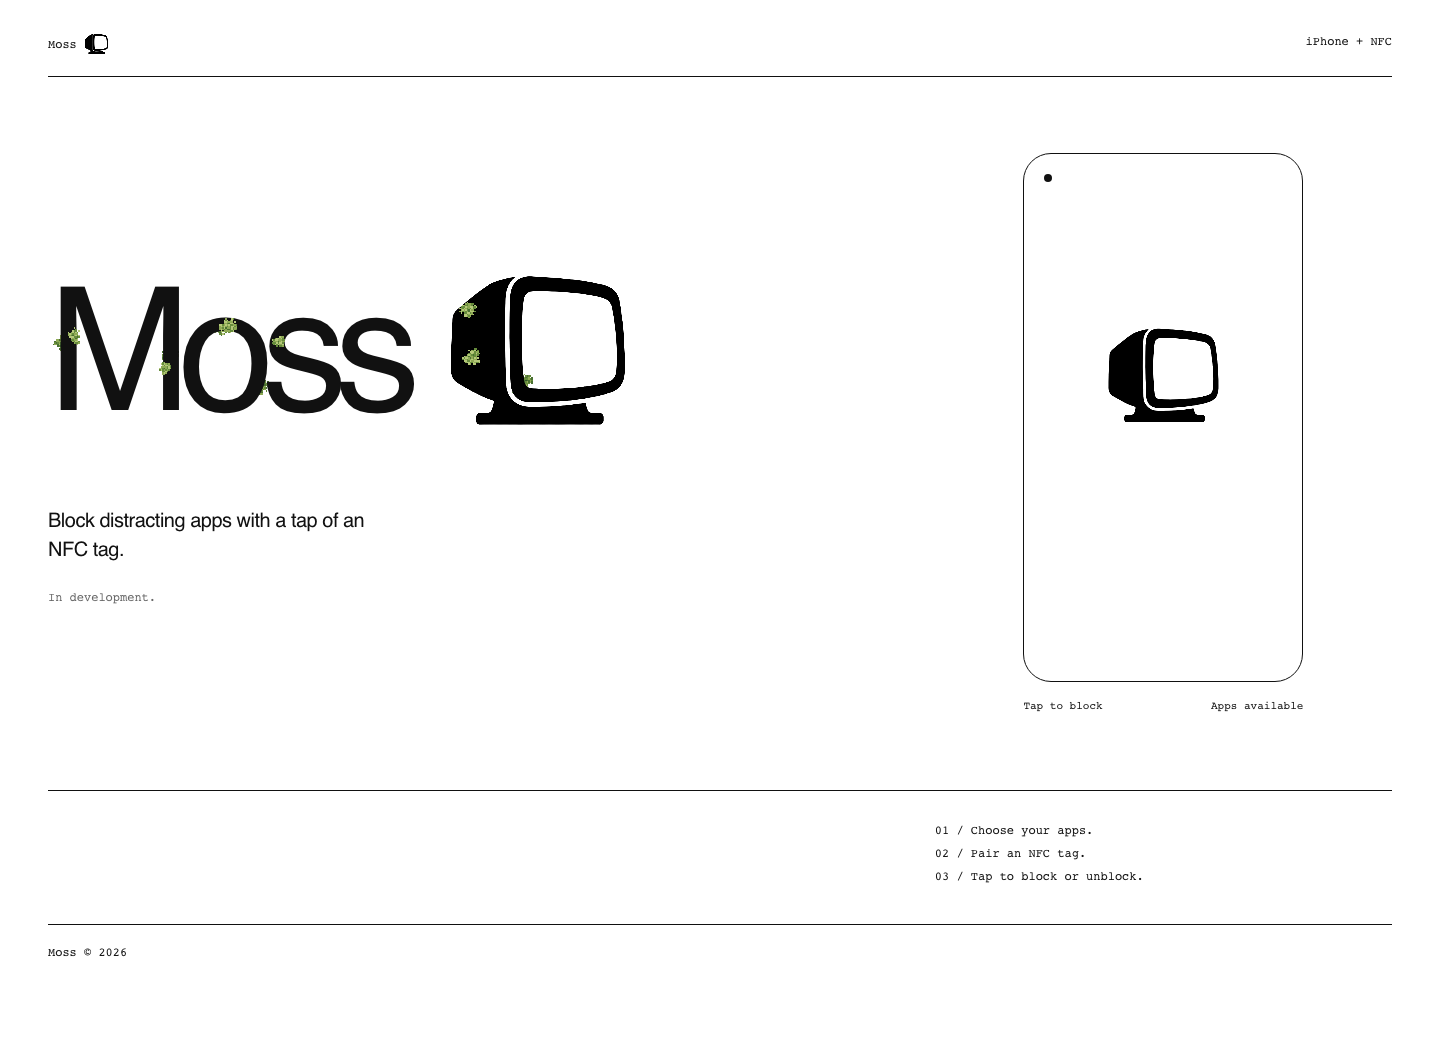
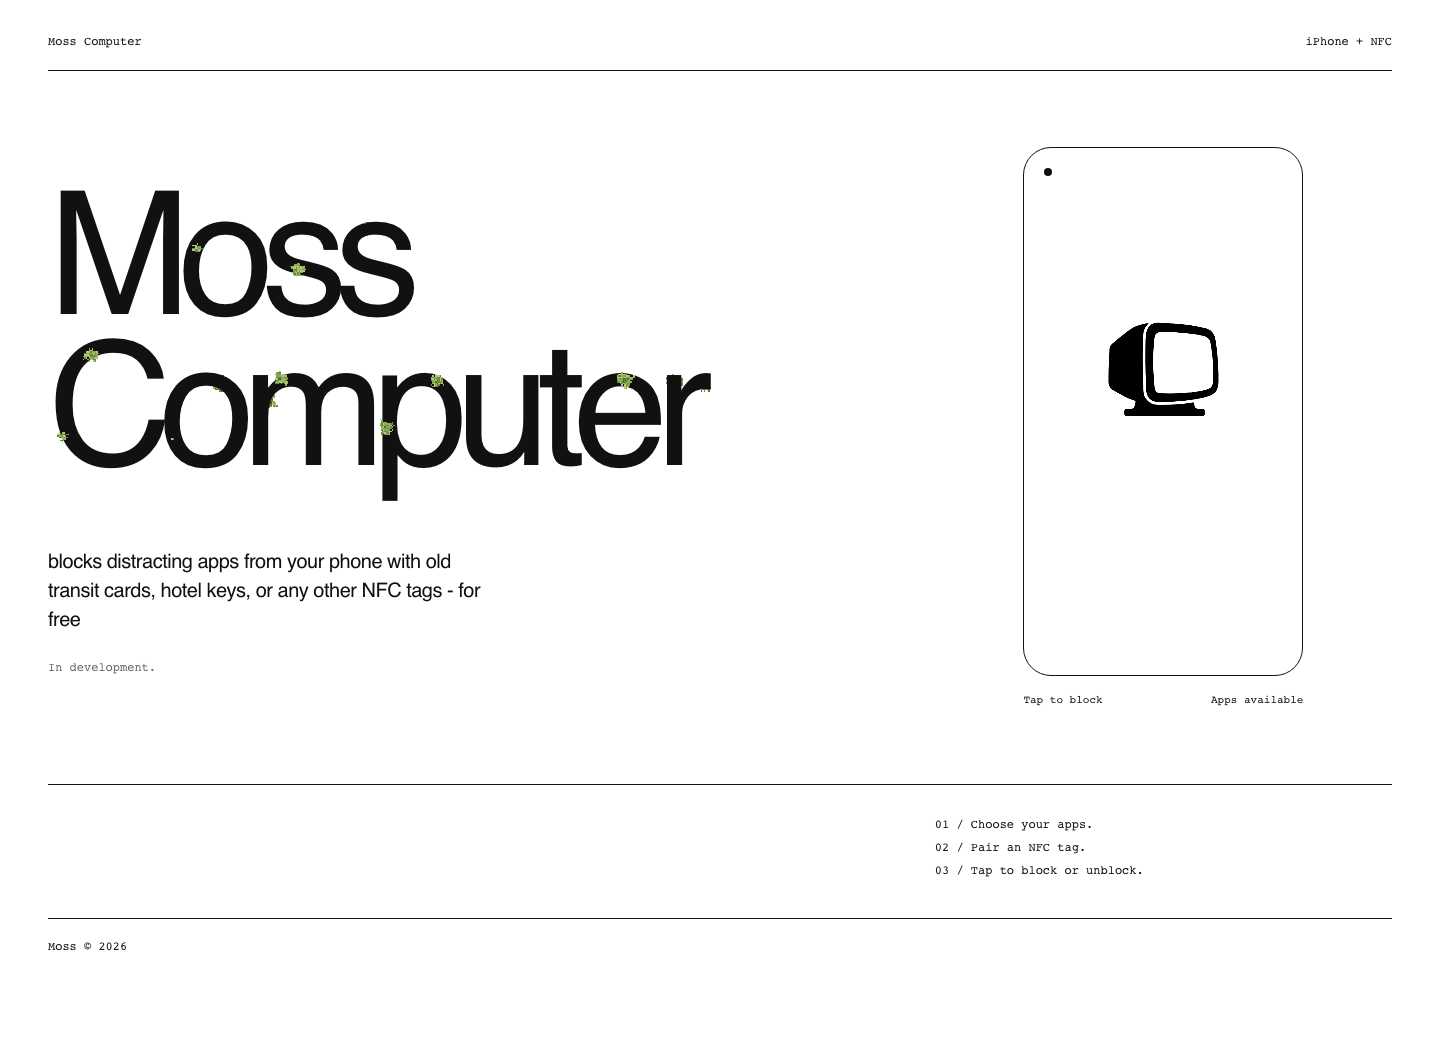
Use a text wordmark and compare rounded and geometric computers

diff --git a/index.html b/index.html
@@ -3,10 +3,10 @@
 <head>
   <meta charset="utf-8">
   <meta name="viewport" content="width=device-width, initial-scale=1">
-  <meta name="description" content="Moss is an iPhone app for blocking distracting apps with an NFC tag.">
+  <meta name="description" content="Moss Computer blocks distracting apps from your phone with old transit cards, hotel keys, or any other NFC tags - for free.">
   <meta name="theme-color" content="#ffffff">
   <meta property="og:title" content="Moss Computer">
-  <meta property="og:description" content="Block distracting apps with a tap of an NFC tag.">
+  <meta property="og:description" content="Blocks distracting apps from your phone with old transit cards, hotel keys, or any other NFC tags - for free.">
   <meta property="og:type" content="website">
   <meta property="og:url" content="https://mosscomputer.com/">
   <link rel="canonical" href="https://mosscomputer.com/">
@@ -17,12 +17,12 @@
 </head>
 <body>
   <div class="page">
-    <header><span class="header-brand" aria-label="Moss Computer">Moss <img class="brand-icon" src="assets/computer-image-2.png" width="28" height="24" alt="Computer"></span><span>iPhone + NFC</span></header>
+    <header><span class="header-brand">Moss Computer</span><span>iPhone + NFC</span></header>
     <main>
       <section class="hero" aria-labelledby="name">
         <div>
-          <h1 id="name" aria-label="Moss Computer"><canvas class="moss-layer back" aria-hidden="true"></canvas><span data-ink>Moss</span><img data-ink class="brand-icon" src="assets/computer-image-2.png" width="592" height="526" alt=""><canvas class="moss-layer front" aria-hidden="true"></canvas></h1>
-          <p class="intro">Block distracting apps with a tap of an NFC tag.</p>
+          <h1 id="name"><canvas class="moss-layer back" aria-hidden="true"></canvas><span data-ink>Moss</span> <span data-ink>Computer</span><canvas class="moss-layer front" aria-hidden="true"></canvas></h1>
+          <p class="intro">blocks distracting apps from your phone with old transit cards, hotel keys, or any other NFC tags - for free</p>
           <p class="soon">In development.</p>
         </div>
         <figure>

diff --git a/script.js b/script.js
@@ -5,21 +5,18 @@ const screen = document.querySelector('.screen');
 const title = document.getElementById('name');
 const icon = document.querySelector('.icon');
 const selectedIcon = icons.find(item => item.id === new URLSearchParams(location.search).get('icon')) || defaultIcon;
-const brandIcon = selectedIcon.id.startsWith('computer') ? selectedIcon : defaultIcon;
-const titleIcon = title.querySelector('img');
-const headerIcon = document.querySelector('.header-brand img');
 const reducedMotion = matchMedia('(prefers-reduced-motion: reduce)');
 // Wait for the new request: replacing a PNG can invalidate Firefox's pending decode.
-await Promise.all([[icon, selectedIcon.src], [titleIcon, brandIcon.src], [headerIcon, brandIcon.src]].map(([image, source]) => new Promise((resolve, reject) => {
-  image.onload = () => { image.onload = image.onerror = null; resolve(); };
-  image.onerror = () => { image.onload = image.onerror = null; reject(new Error(`Cannot load ${source}`)); };
-  image.src = source;
-})));
+await new Promise((resolve, reject) => {
+  icon.onload = () => { icon.onload = icon.onerror = null; resolve(); };
+  icon.onerror = () => { icon.onload = icon.onerror = null; reject(new Error(`Cannot load ${selectedIcon.src}`)); };
+  icon.src = selectedIcon.src;
+});
 await document.fonts.ready;
 const phone = createIconField(screen, icon, selectedIcon);
 let titleMoss;
 function createTitle() {
-  const next = createWordmarkField(title, titleMoss, brandIcon);
+  const next = createWordmarkField(title, titleMoss);
   if (next === titleMoss) return;
   titleMoss = next;
   titleMoss.growth.setBlocked(true);

diff --git a/prototypes.html b/prototypes.html
@@ -12,12 +12,22 @@
 </head>
 <body>
   <div class="page prototype-page">
-    <header><a class="header-brand" href="index.html" aria-label="Moss Computer">Moss <img class="brand-icon" src="assets/computer-image-2.png" width="28" height="24" alt=""></a><span>Icon studies</span></header>
+    <header><a class="header-brand" href="index.html">Moss Computer</a><span>Icon studies</span></header>
     <main>
       <div class="study-heading">
         <div><h1>Icon studies</h1><p>Equal growth in every direction.</p></div>
         <div class="controls"><button id="grow" type="button">Grow all</button><button id="reset" type="button">Reset</button></div>
       </div>
+      <section class="page-study" aria-labelledby="page-heading">
+        <h2 id="page-heading">Rounded computer / page preview</h2>
+        <p><a href="index.html?icon=computer-image-3">Open full page ↗</a></p>
+        <iframe src="index.html?icon=computer-image-3" title="Moss Computer landing page with the rounded computer icon" loading="lazy"></iframe>
+      </section>
+      <section class="page-study" aria-labelledby="geometric-page-heading">
+        <h2 id="geometric-page-heading">Geometric computer / page preview</h2>
+        <p><a href="index.html?icon=computer-geometric">Open full page ↗</a></p>
+        <iframe src="index.html?icon=computer-geometric" title="Moss Computer landing page with the geometric SVG computer icon" loading="lazy"></iframe>
+      </section>
       <section aria-labelledby="image-heading">
         <h2 id="image-heading">Your computer icons</h2>
         <div class="studies image-studies" id="images"></div>

diff --git a/style.css b/style.css
@@ -5,12 +5,10 @@ header, footer { display: flex; justify-content: space-between; gap: 20px; font:
 header { padding-bottom: 20px; border-bottom: 1px solid; }
 .header-brand { display: flex; align-items: center; gap: 6px; }
 .brand-icon { object-fit: contain; mix-blend-mode: multiply; filter: grayscale(1) contrast(3); }
-.header-brand .brand-icon { width: 28px; height: 24px; }
 .hero { display: grid; grid-template-columns: 1.8fr 1fr; align-items: center; gap: 64px; padding: 76px 0; min-height: 640px; }
 h1 { position: relative; width: fit-content; margin: 0 0 64px; font-size: clamp(80px, 12vw, 172px); font-weight: 500; line-height: .88; letter-spacing: -.075em; }
-#name { display: flex; align-items: center; gap: .16em; }
-#name .brand-icon { position: relative; z-index: 1; width: 1.2em; height: 1.05em; }
-.intro { max-width: 350px; margin: 0; font-size: 20px; line-height: 1.45; letter-spacing: -.025em; }
+#name [data-ink] { display: block; }
+.intro { max-width: 440px; margin: 0; font-size: 20px; line-height: 1.45; letter-spacing: -.025em; }
 .soon { margin: 24px 0 0; color: #666; font: 12px/1.5 ui-monospace, monospace; }
 figure { width: 280px; max-width: 100%; margin: 0 auto; }
 .screen { position: relative; display: grid; place-items: center; width: 100%; aspect-ratio: 9 / 17; padding: 0; border: 1px solid #111; border-radius: 28px; background: #fff; color: #111; cursor: pointer; -webkit-tap-highlight-color: transparent; transition: background-color .35s, color .35s; }

diff --git a/prototypes.css b/prototypes.css
@@ -7,6 +7,8 @@ a { color: inherit; text-underline-offset: 3px; }
 .controls button:first-child { background: #111; color: #fff; }
 .prototype-page section + section { margin-top: 56px; }
 .prototype-page h2 { margin: 0 0 24px; font-size: 20px; font-weight: 500; letter-spacing: -.03em; }
+.page-study p { margin: 0 0 20px; font: 12px/1.6 ui-monospace, monospace; }
+.page-study iframe { display: block; width: 100%; height: 940px; border: 1px solid #d0d0d0; border-radius: 4px; }
 .studies { display: grid; grid-template-columns: repeat(5, minmax(0, 1fr)); gap: 20px; }
 .computer-studies { grid-template-columns: repeat(5, minmax(0, 1fr)); }
 .image-studies { grid-template-columns: repeat(2, minmax(0, 1fr)); }
@@ -37,6 +39,7 @@ a { color: inherit; text-underline-offset: 3px; }
 .study-note { padding: 36px 0 48px; }
 .controls button:focus-visible, .wordmark-preview:focus-visible, a:focus-visible { outline: 2px solid #111; outline-offset: 4px; }
 @media (max-width: 900px) {
+  .page-study iframe { height: 1200px; }
   .studies { grid-template-columns: repeat(3, minmax(0, 1fr)); }
   .computer-studies { grid-template-columns: repeat(2, minmax(0, 1fr)); }
   .image-studies, .wordmark-grid { grid-template-columns: 1fr; }

diff --git a/prototypes.js b/prototypes.js
@@ -45,11 +45,11 @@ const fields = await Promise.all(icons.map(async icon => {
   return connectPreview(figure, createIconField(figure, image, icon), icon.name);
 }));
 
-for (const icon of icons.filter(icon => icon.src.endsWith('.png'))) {
+for (const icon of icons.filter(icon => icon.src.endsWith('.png') || icon.id === 'computer-geometric')) {
   for (const replaceO of [false, true]) {
     const study = document.createElement('article');
     study.className = 'wordmark-study';
-    const label = `${icon.id.endsWith('1') ? 'Dark' : 'Light'} screen / ${replaceO ? 'computer “o”' : 'Moss + computer'}`;
+    const label = `${icon.name.replace('Your computer / ', '')} / ${replaceO ? 'computer “o”' : 'Moss + computer'}`;
     study.innerHTML = `
       <h3>${label}</h3>
       <button class="wordmark-preview" type="button" aria-pressed="false" aria-label="Grow moss on ${label}">

diff --git a/icons.js b/icons.js
@@ -11,6 +11,8 @@ export const icons = [
   { id: 'computer-thin-surface', name: 'Thin / surface growth, slower', src: 'assets/computer-thin.svg', fillInterior: true, spreadRate: .45 },
   { id: 'computer-image-1', name: 'Your computer / dark screen', src: 'assets/computer-image-1.png', growInterior: true },
   { id: 'computer-image-2', name: 'Your computer / light screen', src: 'assets/computer-image-2.png', growInterior: true },
+  { id: 'computer-image-3', name: 'Your computer / rounded', src: 'assets/computer-image-3.png', growInterior: true },
+  { id: 'computer-geometric', name: 'Rounded computer / geometric SVG', src: 'assets/computer-geometric.svg', growInterior: true },
 ];
 
 export const defaultIcon = icons.find(icon => icon.id === 'computer-image-2');

diff --git a/README.md b/README.md
@@ -6,7 +6,7 @@ Static GitHub Pages site. No dependencies or build step.
 python3 -m http.server 8000
 ```
 
-Open http://localhost:8000. The header and title read **Moss [computer icon]**, using the supplied light-screen computer PNG by default. Moss starts growing on the title before interaction. Tap the phone to block apps in the preview: moss grows on the computer while blocked and dries out after unblocking. Reduced-motion mode displays still images. Green is reserved for the moss.
+Open http://localhost:8000. The header and title read **Moss Computer**, with the computer icon appearing only in the phone preview. The tagline explains that old transit cards, hotel keys, or other NFC tags can block distracting apps for free. Moss starts growing on the title before interaction. Tap the phone to block apps in the preview: moss grows on the supplied light-screen computer while blocked and dries out after unblocking. Reduced-motion mode displays still images. Green is reserved for the moss.
 
 `moss.js` is the cellular automaton; `moss-field.js` builds and renders its habitat; `script.js` connects the landing-page interaction. The phone uses a 144 × 177 grid (previously 72 × 72); the title uses about 1.5 CSS pixels per cell. Each simulation has three depth slices. The shape occupies the solid middle slice and seeds moss on both faces. Every neighbor within a depth slice has equal influence. The circular habitat fringe also gives every direction the same space, with no downward lanes. Growth crosses depth around the shape's edges. Moss stays in place as it matures; it never detaches or falls.
 
@@ -22,7 +22,7 @@ GitHub Pages publishes the repository root on `main`. `CNAME` keeps the custom d
 
 ## Icon prototypes
 
-Open `prototypes.html` to compare the two supplied computer PNGs, with dark and light screens. Each appears in **Moss [computer]** and **M[computer]ss** wordmarks. The page also keeps the three outlined computer glyphs (2, 3.5, and 6-unit strokes), filled silhouette, stone/trunk studies, and river-stone “o.” Use **Grow all**, **Reset**, or tap an individual preview. **Try on site** opens `index.html?icon=<id>`; computer choices also update the title and header. Query values are limited to `icons.js`; unknown values use the supplied light-screen computer.
+Open `prototypes.html` to compare the three supplied computer PNGs, with dark, light, and rounded screens. The rounded computer and a geometric SVG interpretation appear in interactive full-page previews at the top. The SVG uses a polygon and four rounded rectangles to straighten the edges and regularize the corners. Both versions also appear in **Moss [computer]** and **M[computer]ss** wordmarks. The page keeps the three outlined computer glyphs (2, 3.5, and 6-unit strokes), filled silhouette, stone/trunk studies, and river-stone “o.” Use **Grow all**, **Reset**, or tap an individual preview. **Try on site** opens `index.html?icon=<id>` and changes only the phone icon. Query values are limited to `icons.js`; unknown values use the supplied light-screen computer.
 
 `docs/provided-computers.png` compares the supplied images and both wordmark treatments. `docs/computer-studies.png` compares the SVG computer variants with and without moss. `docs/icon-studies.png` and `docs/icon-studies-grown.png` show all previews bare and with equal-direction moss growth.
 
